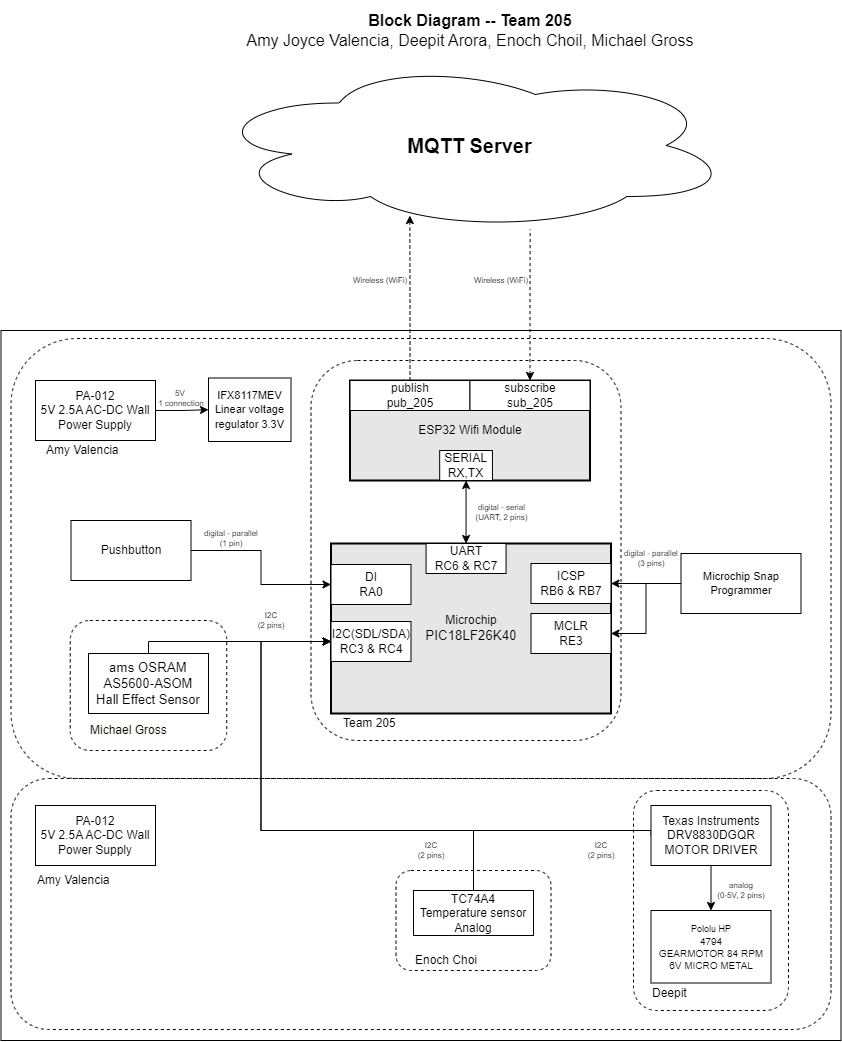
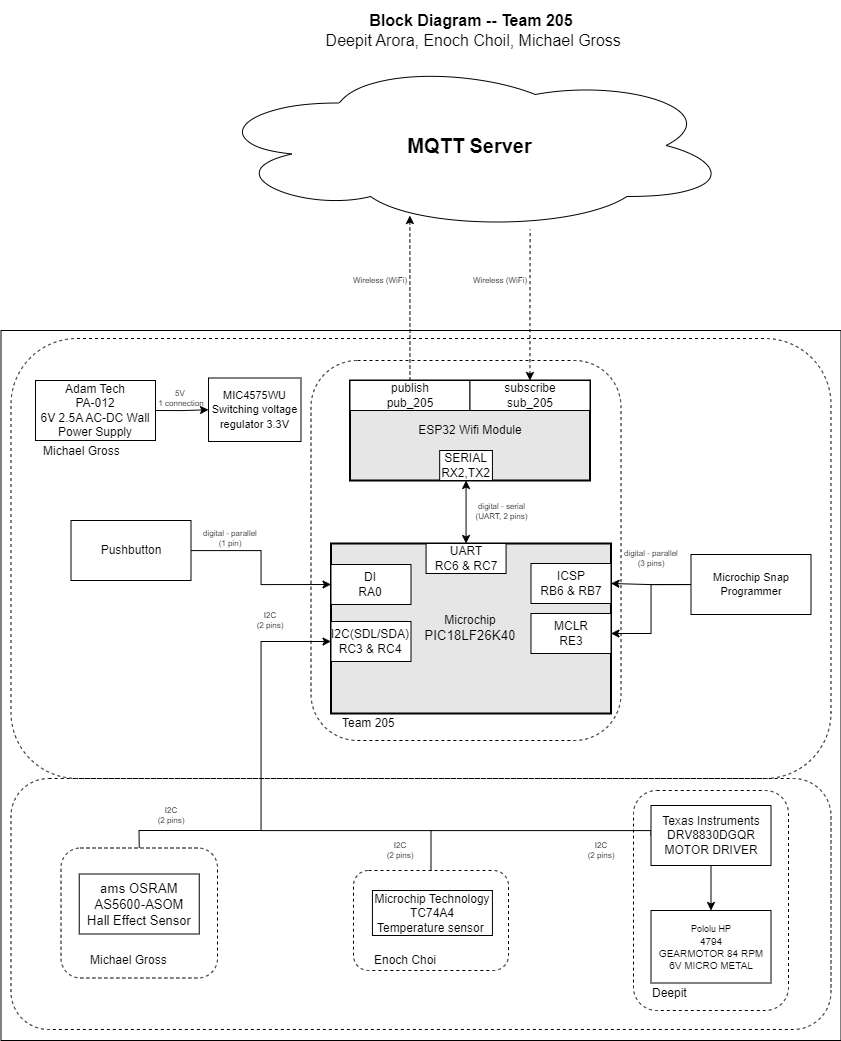
block diagram update

diff --git a/Appendix_E.md b/Appendix_E.md
@@ -6,9 +6,9 @@
 
 | Option | Solution   | Pros            | Cons          |
 |--------|---------------------------------------------------------------------------------|----------------------------------------------|---------------------------|
-| 1 | Pololu  HP Micro Metal Gear Motors Manufacturer #4794 $19.95 [Product Link](https://www.digikey.com/en/products/detail/pololu-corporation/4794/10450215) | High torque Small size Low power consumption	 | Low RPM Open gearbox      |
-| 2 | Johnson Motor PC280LG-303 $6.99 [Product Link](https://www.digikey.com/en/products/detail/johnson-motor/PC280LG-303/12719605?s=N4IgTCBcDaIAoGEwA4AMAZA4gWgMytxAF0BfIA)                            | Low power consumption Higher RPM             | Low torque                |
-| 3  | # Aslong motor ASJGY-370-6-150  $18.00 [Product Link](https://www.digikey.com/en/products/detail/aslong-motor/ASJGY-370-6-150/17141533)                          | High torque Strong build                     | Higher power consumption  |
+| 1 | Pololu  HP Micro Metal Gear Motors Manufacturer #4794 <br> $19.95 <br> [Product Link](https://www.digikey.com/en/products/detail/pololu-corporation/4794/10450215) | High torque <br>  Small size <br> Low power consumption	 | Low RPM  <br> Open gearbox      |
+| 2 | Johnson Motor PC280LG-303 <br> $6.99 <br>[Product Link](https://www.digikey.com/en/products/detail/johnson-motor/PC280LG-303/12719605)                            | Low power consumption Higher RPM             | Low torque                |
+| 3  | # Aslong motor ASJGY-370-6-150  <br> $18.00 <br> [Product Link](https://www.digikey.com/en/products/detail/aslong-motor/ASJGY-370-6-150/17141533)                          | High torque <br> Strong build                     | Higher power consumption  |
 
 **Choice**: Pololu HP Micro Metal Gear Motors #4794
 
@@ -20,21 +20,22 @@
 
 | Option | Solution   |     Pros          | Cons      |
 |--------|-----------------------------------------------------------------------|------------------------------------------------------------------------------------------------------|----------------------------------------------------------------------------------------------------------------------------------------|
-| 1 | Analog Devices Inc. TMP36GT9Z $2.40 [Product Link](https://www.digikey.com/en/products/detail/analog-devices-inc./TMP36GT9Z/820404?utm_adgroup=Sensors%2C%20Transducers&utm_source=google&utm_medium=cpc&utm_campaign=Shopping_Supplier_Analog%20Devices_8100_Co-op&utm_term=&utm_content=Sensors%2C%20Transducers&gclid=CjwKCAiAuOieBhAIEiwAgjCvcsCZyWVeiyDcKQUVVTk8pV4ASd2GmkGpzxy_TOEjEfYKlqq3DK2GTBoC_5sQAvD_BwE)                 | Can measure from -40 degrees to 125 degrees (Celsius)  Requires 2.7-5.5V to power Inexpensive Analog | Requires ADC <br> Would need to configure specific resistances in the temperatures desired because of the large range the sensor can detect |
-| 2 |  Vishay Dale 02C5000FF $7.47 [Product Link](https://www.digikey.com/en/products/detail/vishay-dale/02C5000FF/7102168?utm_adgroup=Sensors&utm_source=google&utm_medium=cpc&utm_campaign=Shopping_Supplier_Vishay&utm_term=&utm_content=Sensors&gclid=CjwKCAiAuOieBhAIEiwAgjCvcjanU_nYK6sKSd_tNL7Bc9r0mU-zho8bE9Sww9H88CmrueyUZ3rF7xoCSCEQAvD_BwE)                         | Smaller in size than above Also can measure from -40 degrees to 125 degrees (Celsius)                | More Expensive Operating Voltage not specified                                                                                         |
+| 1 | Analog Devices Inc. TMP36GT9Z <br> $2.40 <br> [Product Link](https://www.digikey.com/en/products/detail/analog-devices-inc./TMP36GT9Z/820404)                 | Can measure from -40 degrees to 125 degrees (Celsius) <br> Requires 2.7-5.5V to power Inexpensive Analog | Requires ADC <br> Would need to configure specific resistances in the temperatures desired because of the large range the sensor can detect |
+| 2 |  Vishay Dale 02C5000FF <br> $7.47 <br> [Product Link](https://www.digikey.com/en/products/detail/vishay-dale/02C5000FF/7102168)                         | Smaller in size than above <br> Can measure from -40 degrees to 125 degrees (Celsius)                | More Expensive <br> Operating Voltage not specified                                                                                         |
+
 **Choice**: Option 1: TMP36GT9Z Temperature Sensor
 
 <img src="/media/webpage//TC74A0.png" alt="TC74A0" width="25%" height="25%"/>
 
 **Rationale**: While both options have the same range of measurable temperatures, option 1 is able to operate at the range of 2.7V to 5.5V which is within our desired voltage of operation. Also, option 1 is significantly less expensive than option 2.
 
-### Hall Effect (Wind Sensor Subsystem)
+### Hall Effect Sensor (Wind Speed Subsystem)
 
 | Option | Solution                                                                                                        | Pros                                                                                   | Cons                                                                                                                                             |
 |--------|-----------------------------------------------------------------------------------------------------------------|----------------------------------------------------------------------------------------|--------------------------------------------------------------------------------------------------------------------------------------------------|
-| 1 |  Adafruit 1733 $44.95 [Product Link](https://www.digikey.com/en/products/detail/adafruit-industries-llc/1733/5356813)                                                                          | All in one solution Simple linear Voltage to Wind Speed conversion in datasheet Analog | Requires 7-24V to power Expensive Sensor Requires ADC Requires OpAmp                                                                             |
-| 2 | ams OSRAM AS5600-ASOM $3.46 [Product Link](https://www.digikey.com/en/products/detail/ams-osram/AS5600-ASOM/4914332)          | I2C protocol Smaller physical footprint Wind cups can be 3d modeled or ordered         | Would require additional wind cup and structure Lower resolution Requires timer and equation implementation within code Requires external magnet |
-| 3 | Bourns Inc. PEC12R-4025F-N0024 $1.25 [Product Link](https://www.digikey.com/en/products/detail/bourns-inc/PEC12R-4025F-N0024/4499645) | Low cost solution for reading wind speed Wind cups can be 3d modeled as well           | Would require additional wind cup and structure Lower resolution Requires timer and equation implementation within code Requires ADC             |
+| 1 |  Adafruit 1733 <br> $44.95 <br> [Product Link](https://www.digikey.com/en/products/detail/adafruit-industries-llc/1733/5356813)                                                                          | All in one solution <br> Simple linear Voltage to Wind Speed conversion in datasheet  | Requires 7-24V to power Expensive Sensor Requires ADC Requires OpAmp                                                                             |
+| 2 | ams OSRAM AS5600-ASOM <br> $3.46 <br> [Product Link](https://www.digikey.com/en/products/detail/ams-osram/AS5600-ASOM/4914332)          | I2C protocol <br> Smaller physical footprint Wind cups can be 3d modeled or ordered         | Would require additional wind cup and structure Lower resolution Requires timer and equation implementation within code Requires external magnet |
+| 3 | Bourns Inc. PEC12R-4025F-N0024 <br> $1.25 <br> [Product Link](https://www.digikey.com/en/products/detail/bourns-inc/PEC12R-4025F-N0024/4499645) | Low cost solution for reading wind speed Wind cups can be 3d modeled as well           | Would require additional wind cup and structure Lower resolution Requires timer and equation implementation within code Requires ADC             |
 
 **Choice**: AS5600-ASOM + External cup assembly (bought or designed)
 
@@ -47,23 +48,25 @@
 
 | Option | Solution                                                 | Pros                                                                             | Cons                                                                            |
 |--------|----------------------------------------------------------|----------------------------------------------------------------------------------|---------------------------------------------------------------------------------|
-| 1  | Onsemi LM317BT $1.00 [Product Link](https://www.mouser.com/ProductDetail/onsemi/LM317BT?qs=2OtswVQKCOFqwWAJL8KJcQ%3D%3D)                 | Output is within desired range (1.2 - 37V) Familiarity. Used previously in class | Larger in size compared to other options  Not always in stock Not surface mount |
-| 2 | ROHM Semiconductor BD900N1G-CTR $1.34 [Product Link](https://www.mouser.com/ProductDetail/ROHM-Semiconductor/BD900N1G-CTR?qs=tlsG%2FOw5FFj5wsaHI6szYQ%3D%3D )       | Surface mount Reasonable output voltage (1.25 - 13.8V)                           | More expensive than above                                                       |
-| 3 | Microchip Technology / Atmel LR12K4-G $1.97 [Product Link](https://www.digikey.com/en/products/detail/texas-instruments/LM340T-5-0-NOPB/6237?utm_adgroup=Texas%20Instruments&utm_source=google&utm_medium=cpc&utm_campaign=Dynamic%20Search_EN_Focus%20Suppliers&utm_term=&utm_content=Texas%20Instruments&gclid=Cj0KCQiA4aacBhCUARIsAI55maFnEFSxY9Nrp74SMGPRYId6pp5bPTp1S4CAfAtAoHT3UKIn8THIalcaAgYoEALw_wcB)  | High output voltage (1-88V) In stock                                             | Most expensive of the three Smallest option                                     |
+| 1  | MicroChip  MIC4575WU <br> $4.58 <br> [Product Link](https://www.digikey.com/en/products/detail/microchip-technology/MIC4575WU/771686)                 | Output is within desired range (1.2 - 37V) <br> Familiarity Used previously in class | Larger in size compared to other options  Not always in stock Not surface mount |
+| 2 | ROHM Semiconductor BD900N1G-CTR <br> $1.34 <br> [Product Link](https://www.mouser.com/ProductDetail/ROHM-Semiconductor/BD900N1G-CTR?qs=tlsG%2FOw5FFj5wsaHI6szYQ%3D%3D )       | Surface mount Reasonable output voltage (1.25 - 13.8V)                           | More expensive than above                                                       |
+| 3 | Microchip Technology / Atmel LR12K4-G  <br> $1.97 <br> [Product Link](https://www.digikey.com/en/products/detail/texas-instruments/LM340T-5-0-NOPB/6237)  | High output voltage (1-88V) In stock                                             | Most expensive of the three Smallest option                                     |
+
 
 **Choice**: MIC4575WU
 
 <img src="/media/webpage/MIC4575WU.png" alt="MIC4575WU" width="25%" height="25%"/>
 
-**Rationale**:
+**Rationale**: We chose the MIC4575WU switching voltage regulator because the team had familiarity with a variation of the chip from a previous semester's project. Additionally, it it allows our team to tune the output to 3.3V at fairly cheap cost. Furthermore, the adjustable circuit is outlined in the datasheet with exact part numbers to generate the desired voltage output.
 
-## Power Control Module : Switching Voltage Regulator 
+
+## Power Control Module : Switching Voltage Regulator
 
 | Option | Solution                                              | Pros                                                  | Cons                                       |
 |--------|-------------------------------------------------------|-------------------------------------------------------|--------------------------------------------|
-| 1 |  Adam Tech PA-012 $9.71 [Product Link](https://www.digikey.com/en/products/detail/adam-tech/PA-012/14317019)             | Wall mount No load power consumption                  | 5V output may be too low for components    |
-| 2 | Adafruit Industries 1528-1835-ND $24.50 [Product Link](https://www.digikey.com/en/products/detail/adafruit-industries-llc/353/5054549)| Not wall bound Can be recharged after use             | Most expensive option  3.7V may be too low |
-| 3 | TKDY 9V 1.5A Power Supply Charger  $12.99 [Product Link](https://www.amazon.com/Adapter-Switching-Transformer-Charger-Certificate/dp/B08F78R13B/ref=pd_lpo_1?pd_rd_w=SALEX&content-id=amzn1.sym.116f529c-aa4d-4763-b2b6-4d614ec7dc00&pf_rd_p=116f529c-aa4d-4763-b2b6-4d614ec7dc00&pf_rd_r=K8CAXBE8ZR889PMYWN45&pd_rd_wg=VDzOb&pd_rd_r=45420db3-0978-4b0b-aca4-bb7349181a80&pd_rd_i=B08F78R13B&th=1) | Continuous short circuit protection Multiple adapters | No datasheet                               |
+| 1 |  Adam Tech PA-012 <br> $9.71 <br> [Product Link](https://www.digikey.com/en/products/detail/adam-tech/PA-012/14317019)             | Wall mount <br>  No load power consumption                  | 5V output may be too low for components    |
+| 2 | Adafruit Industries 1528-1835-ND <br> $24.50 <br> [Product Link](https://www.digikey.com/en/products/detail/adafruit-industries-llc/353/5054549)| Not wall bound  <br> Can be recharged after use             | Most expensive option  <br>  3.7V may be too low |
+| 3 | TKDY 9V 1.5A Power Supply Charger <br> $12.99 <br> [Product Link](https://www.amazon.com/Adapter-Switching-Transformer-Charger-Certificate/dp/B08F78R13B/ref=pd_lpo_1) | Continuous short circuit protection Multiple adapters | No datasheet                               |
 
 **Choice**:  Adafruit Battery Pack
 

diff --git a/Appendix_D.md b/Appendix_D.md
@@ -3,18 +3,7 @@
 
 ## Verification Table 
 
-|        | 5V Power Supply | PIC | Voltage Regulator | Windspeed Sensor | Temp Sensor | Motor Controller | Solenoid Motor (Extension) | Auxilary Motor (Pivot) | ESP32 MQTT Module | Push Button (Manual Override) |
-|-------------------------------|-----------------|:---:|:-----------------:|:----------------:|:-----------:|:----------------:|:--------------------------:|:----------------------:|:-----------------:|:-----------------------------:|
-|        5V Power Supply        |        u        |  u  |         u         |        nc        |      nc     |         u        |             nc             |           nc           |         nc        |               nc              |
-|              PIC              |                 |  u  |         u         |         u        |      u      |         u        |             nc             |            u           |         u         |               u               |
-|       Voltage Regulator       |                 |     |         u         |         u        |      u      |         u        |             nc             |           nc           |         u         |               u               |
-|        Windspeed Sensor       |                 |     |                   |         u        |      nc     |        nc        |             nc             |           nc           |         nc        |               nc              |
-|          Temp Sensor          |                 |     |                   |                  |      u      |        nc        |             nc             |           nc           |         nc        |               nc              |
-|        Motor Controller       |                 |     |                   |                  |             |         u        |              u             |            u           |         nc        |               nc              |
-|   Solenoid Motor (Extension)  |                 |     |                   |                  |             |                  |              u             |           nc           |         nc        |               nc              |
-|     Auxilary Motor (Pivot)    |                 |     |                   |                  |             |                  |                            |            u           |         nc        |               nc              |
-| ESP32 MQTT Module             |                 |     |                   |                  |             |                  |                            |                        |         u         |               nc              |
-| Push Button (Manual Override) |                 |     |                   |                  |             |                  |                            |                        |                   |               u               |
+![Verification Table](/media/webpage/verification_table.png "Verification Table")
 
 ## keys
 

diff --git a/index.md b/index.md
@@ -18,6 +18,11 @@ During the decision-making process for our selected design, we realized that the
 
 ![Concept 2](/media/webpage//EGR314Concept.png "Chosen Design Concept")
 
+### Project Idealization
+
+![Project Render](/media/webpage/project_render.jpg "Project Render")
+
+
 ## Block Diagram
 
 The following illustration demonstrates the team's projected hardware system and how it interconnects with the centered microcontroller and ESP32 Module. Additionally, the team utilizes I2C as the core communication between our sensors and PIC module.
